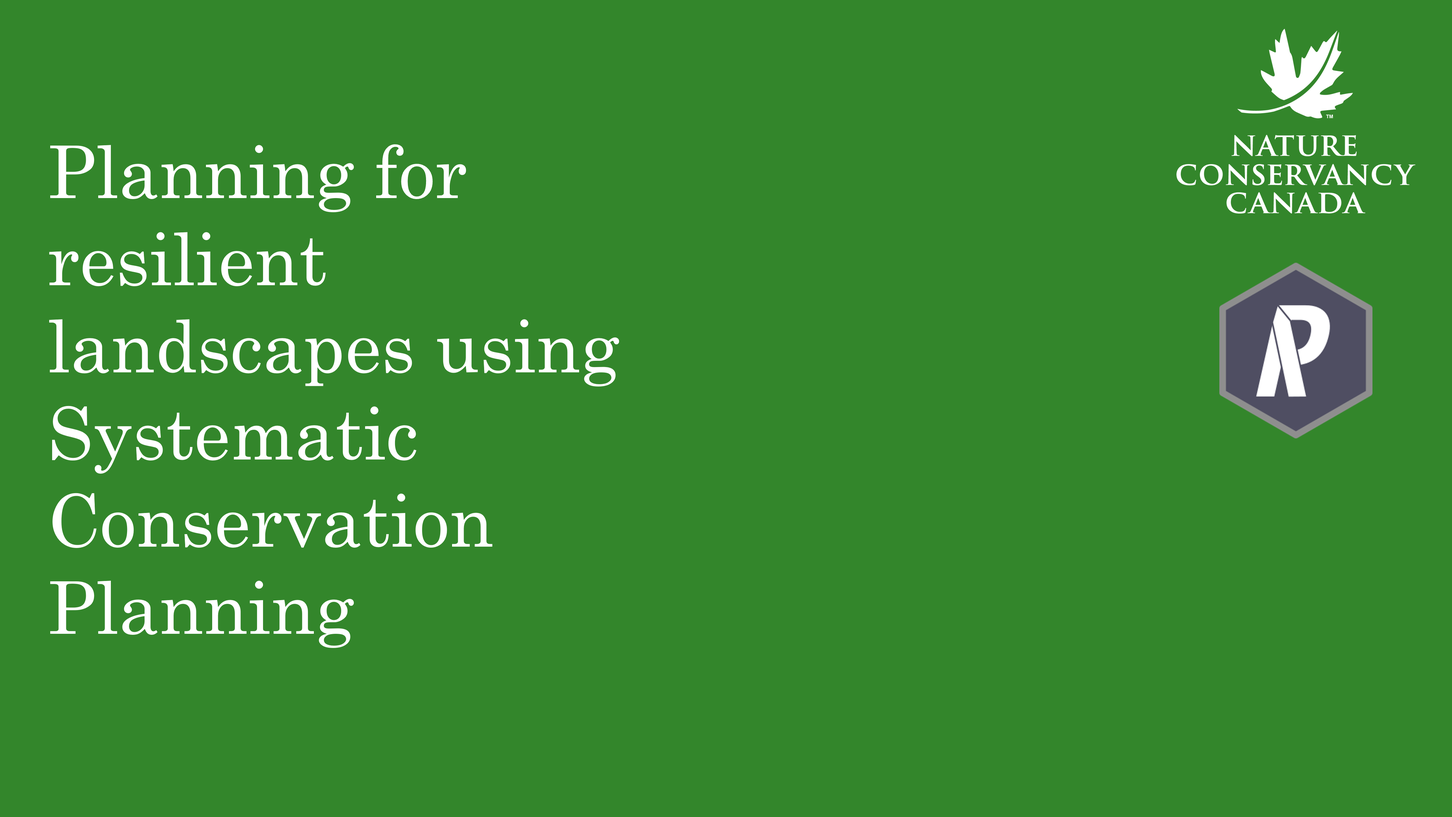
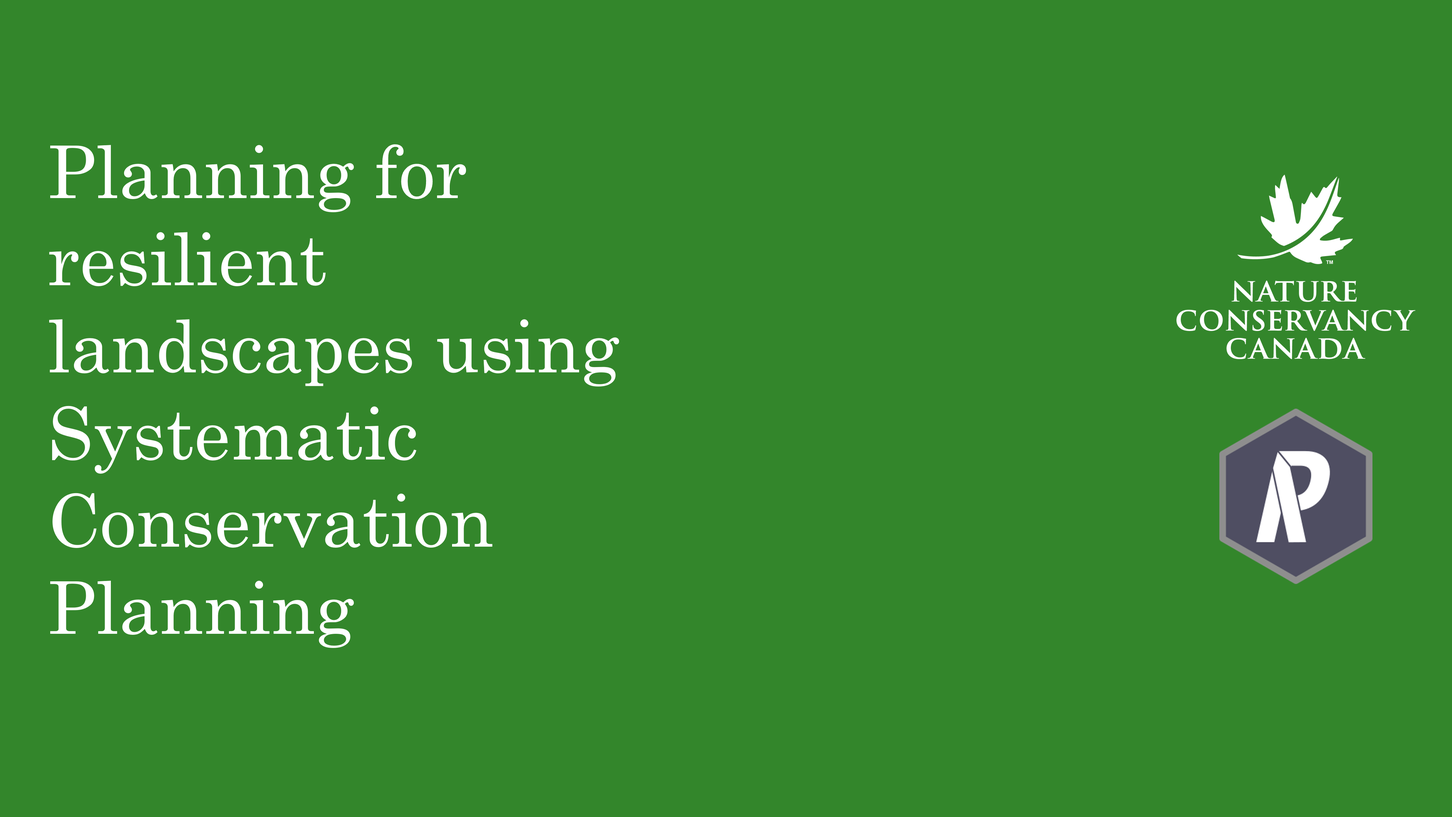
Fix hyperlinks, adjust header image

Changed region(s): [[0.8095, 0.0311, 0.9652, 0.7156]]

diff --git a/docs/reference/read_project.html b/docs/reference/read_project.html
@@ -255,7 +255,7 @@ combination of settings.</p>
 <span class='r-out co'><span class='r-pr'>#&gt;</span> $themes</span>
 <span class='r-out co'><span class='r-pr'>#&gt;</span> $themes[[1]]</span>
 <span class='r-msg co'><span class='r-pr'>#&gt;</span> Theme</span>
-<span class='r-msg co'><span class='r-pr'>#&gt;</span>   id:        cfefddb4-eba1-4b2d-8f7f-08b40c1025b7</span>
+<span class='r-msg co'><span class='r-pr'>#&gt;</span>   id:        3686a84a-f044-4636-ba54-81564b40057c</span>
 <span class='r-msg co'><span class='r-pr'>#&gt;</span>   name:      Brown-necked Parrot (Brown-necked)</span>
 <span class='r-msg co'><span class='r-pr'>#&gt;</span>   feature: </span>
 <span class='r-msg co'><span class='r-pr'>#&gt;</span>     Brown-necked Parrot (Brown-necked) habitat [status: TRUE, current: 0.78, goal: 0.83]</span>
@@ -263,7 +263,7 @@ combination of settings.</p>
 <span class='r-out co'><span class='r-pr'>#&gt;</span> </span>
 <span class='r-out co'><span class='r-pr'>#&gt;</span> $themes[[2]]</span>
 <span class='r-msg co'><span class='r-pr'>#&gt;</span> Theme</span>
-<span class='r-msg co'><span class='r-pr'>#&gt;</span>   id:        0a0b45fb-3264-43e5-8670-cb87819171be</span>
+<span class='r-msg co'><span class='r-pr'>#&gt;</span>   id:        403135f1-96f6-4a49-ae8a-edf678cf2a6d</span>
 <span class='r-msg co'><span class='r-pr'>#&gt;</span>   name:      Gough Island Finch</span>
 <span class='r-msg co'><span class='r-pr'>#&gt;</span>   feature: </span>
 <span class='r-msg co'><span class='r-pr'>#&gt;</span>     Gough Island Finch habitat [status: TRUE, current: 0.78, goal: 0.7]</span>
@@ -271,7 +271,7 @@ combination of settings.</p>
 <span class='r-out co'><span class='r-pr'>#&gt;</span> </span>
 <span class='r-out co'><span class='r-pr'>#&gt;</span> $themes[[3]]</span>
 <span class='r-msg co'><span class='r-pr'>#&gt;</span> Theme</span>
-<span class='r-msg co'><span class='r-pr'>#&gt;</span>   id:        7ddbf632-98a9-4cbe-91ae-eeac268c0913</span>
+<span class='r-msg co'><span class='r-pr'>#&gt;</span>   id:        4a718cbc-4748-4c8a-b04b-13d78e13acb3</span>
 <span class='r-msg co'><span class='r-pr'>#&gt;</span>   name:      Manus Boobook</span>
 <span class='r-msg co'><span class='r-pr'>#&gt;</span>   feature: </span>
 <span class='r-msg co'><span class='r-pr'>#&gt;</span>     Manus Boobook habitat [status: TRUE, current: 0.78, goal: 0.7]</span>
@@ -279,7 +279,7 @@ combination of settings.</p>
 <span class='r-out co'><span class='r-pr'>#&gt;</span> </span>
 <span class='r-out co'><span class='r-pr'>#&gt;</span> $themes[[4]]</span>
 <span class='r-msg co'><span class='r-pr'>#&gt;</span> Theme</span>
-<span class='r-msg co'><span class='r-pr'>#&gt;</span>   id:        5cfbb3d2-d9d5-45ae-9c71-2bd2b1c883fd</span>
+<span class='r-msg co'><span class='r-pr'>#&gt;</span>   id:        16b67415-869c-48a2-8e6a-68570089d99f</span>
 <span class='r-msg co'><span class='r-pr'>#&gt;</span>   name:      Waxbills and Allies</span>
 <span class='r-msg co'><span class='r-pr'>#&gt;</span>   feature: </span>
 <span class='r-msg co'><span class='r-pr'>#&gt;</span>     Red-faced Crimsonwing [status: TRUE, current: 0.75, goal: 0.69]</span>
@@ -303,7 +303,7 @@ combination of settings.</p>
 <span class='r-out co'><span class='r-pr'>#&gt;</span> </span>
 <span class='r-out co'><span class='r-pr'>#&gt;</span> $themes[[5]]</span>
 <span class='r-msg co'><span class='r-pr'>#&gt;</span> Theme</span>
-<span class='r-msg co'><span class='r-pr'>#&gt;</span>   id:        4809ad81-5ce3-4833-9127-e87274d87ff3</span>
+<span class='r-msg co'><span class='r-pr'>#&gt;</span>   id:        8a9803a2-5a89-4f24-af9b-b05cc90d7955</span>
 <span class='r-msg co'><span class='r-pr'>#&gt;</span>   name:      Penduline-Tits</span>
 <span class='r-msg co'><span class='r-pr'>#&gt;</span>   feature: </span>
 <span class='r-msg co'><span class='r-pr'>#&gt;</span>     Eurasian Penduline-Tit [status: TRUE, current: 0.77, goal: 0.8]</span>
@@ -321,10 +321,10 @@ combination of settings.</p>
 <span class='r-out co'><span class='r-pr'>#&gt;</span> $weights</span>
 <span class='r-out co'><span class='r-pr'>#&gt;</span> $weights[[1]]</span>
 <span class='r-msg co'><span class='r-pr'>#&gt;</span> Weight</span>
-<span class='r-msg co'><span class='r-pr'>#&gt;</span>   id:       7ba6b6d5-20c8-42ae-bb81-ce23a0a86542</span>
+<span class='r-msg co'><span class='r-pr'>#&gt;</span>   id:       5e8dc883-65a9-48ac-8db7-77f6d7e52d8e</span>
 <span class='r-msg co'><span class='r-pr'>#&gt;</span>   name:     Landscape naturalness</span>
 <span class='r-msg co'><span class='r-pr'>#&gt;</span>   variable: .../sim_raster_spatial.tif#Landscape_naturalness [total: 146.73 ha]</span>
-<span class='r-msg co'><span class='r-pr'>#&gt;</span>   pane:  6c29d7b5-b63a-48e5-aab1-57207074aa55-Landscape_naturalness</span>
+<span class='r-msg co'><span class='r-pr'>#&gt;</span>   pane:  ef3994c1-589b-4de7-aa34-5385a7e65dd0-Landscape_naturalness</span>
 <span class='r-msg co'><span class='r-pr'>#&gt;</span>   current:  0.78</span>
 <span class='r-msg co'><span class='r-pr'>#&gt;</span>   visible:  TRUE</span>
 <span class='r-msg co'><span class='r-pr'>#&gt;</span>   invisible:  NA</span>
@@ -335,10 +335,10 @@ combination of settings.</p>
 <span class='r-out co'><span class='r-pr'>#&gt;</span> </span>
 <span class='r-out co'><span class='r-pr'>#&gt;</span> $weights[[2]]</span>
 <span class='r-msg co'><span class='r-pr'>#&gt;</span> Weight</span>
-<span class='r-msg co'><span class='r-pr'>#&gt;</span>   id:       32b720d9-ead6-4b02-afc6-79b5442540d7</span>
+<span class='r-msg co'><span class='r-pr'>#&gt;</span>   id:       5b1e27f7-9dca-43fe-b5f3-0d82d4f827ef</span>
 <span class='r-msg co'><span class='r-pr'>#&gt;</span>   name:     Archaeological site</span>
 <span class='r-msg co'><span class='r-pr'>#&gt;</span>   variable: .../sim_raster_spatial.tif#Archaeological_site [total: 153.11 ha]</span>
-<span class='r-msg co'><span class='r-pr'>#&gt;</span>   pane:  63c64a49-6267-492e-9d94-19f92f9e339f-Archaeological_site</span>
+<span class='r-msg co'><span class='r-pr'>#&gt;</span>   pane:  9acaddd3-ebe7-4751-92ea-bd883a240789-Archaeological_site</span>
 <span class='r-msg co'><span class='r-pr'>#&gt;</span>   current:  0.75</span>
 <span class='r-msg co'><span class='r-pr'>#&gt;</span>   visible:  TRUE</span>
 <span class='r-msg co'><span class='r-pr'>#&gt;</span>   invisible:  NA</span>
@@ -349,10 +349,10 @@ combination of settings.</p>
 <span class='r-out co'><span class='r-pr'>#&gt;</span> </span>
 <span class='r-out co'><span class='r-pr'>#&gt;</span> $weights[[3]]</span>
 <span class='r-msg co'><span class='r-pr'>#&gt;</span> Weight</span>
-<span class='r-msg co'><span class='r-pr'>#&gt;</span>   id:       8d18352b-f1c2-423d-9ea9-28e65213f020</span>
+<span class='r-msg co'><span class='r-pr'>#&gt;</span>   id:       c11d9768-f548-4d66-b703-72b7acb07432</span>
 <span class='r-msg co'><span class='r-pr'>#&gt;</span>   name:     Engagement potential</span>
 <span class='r-msg co'><span class='r-pr'>#&gt;</span>   variable: .../sim_raster_spatial.tif#Engagement_potential [total: 145.9 ha]</span>
-<span class='r-msg co'><span class='r-pr'>#&gt;</span>   pane:  acc93769-f5e3-40cb-b067-426059c95363-Engagement_potential</span>
+<span class='r-msg co'><span class='r-pr'>#&gt;</span>   pane:  9f4e5467-3d08-42cd-980f-334417bdfaa7-Engagement_potential</span>
 <span class='r-msg co'><span class='r-pr'>#&gt;</span>   current:  0.78</span>
 <span class='r-msg co'><span class='r-pr'>#&gt;</span>   visible:  TRUE</span>
 <span class='r-msg co'><span class='r-pr'>#&gt;</span>   invisible:  NA</span>
@@ -365,10 +365,10 @@ combination of settings.</p>
 <span class='r-out co'><span class='r-pr'>#&gt;</span> $includes</span>
 <span class='r-out co'><span class='r-pr'>#&gt;</span> $includes[[1]]</span>
 <span class='r-msg co'><span class='r-pr'>#&gt;</span> Include</span>
-<span class='r-msg co'><span class='r-pr'>#&gt;</span>   id:       c7c8ab32-7718-4f87-851f-8a781fc82aab</span>
+<span class='r-msg co'><span class='r-pr'>#&gt;</span>   id:       626c9fc9-5fd7-429a-ae83-e6c2d6f98919</span>
 <span class='r-msg co'><span class='r-pr'>#&gt;</span>   name:     National protected areas</span>
 <span class='r-msg co'><span class='r-pr'>#&gt;</span>   variable: .../sim_raster_spatial.tif#National_protected_areas [total: 159 ]</span>
-<span class='r-msg co'><span class='r-pr'>#&gt;</span>   pane:  9a600469-12f1-4236-bdde-866336042d34-National_protected_areas</span>
+<span class='r-msg co'><span class='r-pr'>#&gt;</span>   pane:  74cd8504-eb6d-4ae1-a78c-278d8c2f21ec-National_protected_areas</span>
 <span class='r-msg co'><span class='r-pr'>#&gt;</span>   visible:  TRUE</span>
 <span class='r-msg co'><span class='r-pr'>#&gt;</span>   invisible:  NA</span>
 <span class='r-msg co'><span class='r-pr'>#&gt;</span>   loaded:  TRUE</span>
@@ -378,10 +378,10 @@ combination of settings.</p>
 <span class='r-out co'><span class='r-pr'>#&gt;</span> </span>
 <span class='r-out co'><span class='r-pr'>#&gt;</span> $includes[[2]]</span>
 <span class='r-msg co'><span class='r-pr'>#&gt;</span> Include</span>
-<span class='r-msg co'><span class='r-pr'>#&gt;</span>   id:       1b0641c2-d51a-44fd-81b3-c0b06ad6e7c8</span>
+<span class='r-msg co'><span class='r-pr'>#&gt;</span>   id:       1d1aefa5-300c-4e86-a6df-a875dce1aadd</span>
 <span class='r-msg co'><span class='r-pr'>#&gt;</span>   name:     Key Biodiversity Areas</span>
 <span class='r-msg co'><span class='r-pr'>#&gt;</span>   variable: .../sim_raster_spatial.tif#Key_Biodiversity_Areas [total: 147 ]</span>
-<span class='r-msg co'><span class='r-pr'>#&gt;</span>   pane:  8a6a9211-e78e-4bcd-8f03-e4a33167ce42-Key_Biodiversity_Areas</span>
+<span class='r-msg co'><span class='r-pr'>#&gt;</span>   pane:  f2d4dd33-b6c1-4ccf-b853-642733b08238-Key_Biodiversity_Areas</span>
 <span class='r-msg co'><span class='r-pr'>#&gt;</span>   visible:  TRUE</span>
 <span class='r-msg co'><span class='r-pr'>#&gt;</span>   invisible:  NA</span>
 <span class='r-msg co'><span class='r-pr'>#&gt;</span>   loaded:  TRUE</span>

diff --git a/docs/reference/simulate_themes.html b/docs/reference/simulate_themes.html
@@ -213,7 +213,7 @@ categorical defined by a conditional: <code>stats::runif(1) &gt; 0.5</code></p><
 <span class='r-in'><span class='fu'><a href='https://rdrr.io/r/base/print.html'>print</a></span><span class='op'>(</span><span class='va'>x</span><span class='op'>)</span></span>
 <span class='r-out co'><span class='r-pr'>#&gt;</span> [[1]]</span>
 <span class='r-msg co'><span class='r-pr'>#&gt;</span> Theme</span>
-<span class='r-msg co'><span class='r-pr'>#&gt;</span>   id:        cd1a8325-8bf3-4911-8649-06510f46b848</span>
+<span class='r-msg co'><span class='r-pr'>#&gt;</span>   id:        8e6f980a-68a6-4ee1-9e0c-a892fbb290b9</span>
 <span class='r-msg co'><span class='r-pr'>#&gt;</span>   name:      Black-lored Babbler</span>
 <span class='r-msg co'><span class='r-pr'>#&gt;</span>   feature: </span>
 <span class='r-msg co'><span class='r-pr'>#&gt;</span>     Black-lored Babbler habitat [status: TRUE, current: 0.24, goal: 0.65]</span>
@@ -221,7 +221,7 @@ categorical defined by a conditional: <code>stats::runif(1) &gt; 0.5</code></p><
 <span class='r-out co'><span class='r-pr'>#&gt;</span> </span>
 <span class='r-out co'><span class='r-pr'>#&gt;</span> [[2]]</span>
 <span class='r-msg co'><span class='r-pr'>#&gt;</span> Theme</span>
-<span class='r-msg co'><span class='r-pr'>#&gt;</span>   id:        31c255d2-4c57-4dde-9907-ad66b67e87a5</span>
+<span class='r-msg co'><span class='r-pr'>#&gt;</span>   id:        a9b62451-bfbb-4e18-8a0e-19bb2139f647</span>
 <span class='r-msg co'><span class='r-pr'>#&gt;</span>   name:      Ornate Flycatcher</span>
 <span class='r-msg co'><span class='r-pr'>#&gt;</span>   feature: </span>
 <span class='r-msg co'><span class='r-pr'>#&gt;</span>     Ornate Flycatcher habitat [status: TRUE, current: 0.41, goal: 0.61]</span>
@@ -229,7 +229,7 @@ categorical defined by a conditional: <code>stats::runif(1) &gt; 0.5</code></p><
 <span class='r-out co'><span class='r-pr'>#&gt;</span> </span>
 <span class='r-out co'><span class='r-pr'>#&gt;</span> [[3]]</span>
 <span class='r-msg co'><span class='r-pr'>#&gt;</span> Theme</span>
-<span class='r-msg co'><span class='r-pr'>#&gt;</span>   id:        c29d3698-951c-4fe5-bad4-4f96a5f9dfb6</span>
+<span class='r-msg co'><span class='r-pr'>#&gt;</span>   id:        79bcad80-d11c-4531-9c14-92fbd9ff23ef</span>
 <span class='r-msg co'><span class='r-pr'>#&gt;</span>   name:      Slaty Bristlefront</span>
 <span class='r-msg co'><span class='r-pr'>#&gt;</span>   feature: </span>
 <span class='r-msg co'><span class='r-pr'>#&gt;</span>     Slaty Bristlefront habitat [status: TRUE, current: 0.26, goal: 0.58]</span>
@@ -237,7 +237,7 @@ categorical defined by a conditional: <code>stats::runif(1) &gt; 0.5</code></p><
 <span class='r-out co'><span class='r-pr'>#&gt;</span> </span>
 <span class='r-out co'><span class='r-pr'>#&gt;</span> [[4]]</span>
 <span class='r-msg co'><span class='r-pr'>#&gt;</span> Theme</span>
-<span class='r-msg co'><span class='r-pr'>#&gt;</span>   id:        04b88276-92fd-4387-8a25-d4450de2aa18</span>
+<span class='r-msg co'><span class='r-pr'>#&gt;</span>   id:        23161f39-728e-40fb-bcb6-bde2670e8085</span>
 <span class='r-msg co'><span class='r-pr'>#&gt;</span>   name:      Wattle-eyes and Batises</span>
 <span class='r-msg co'><span class='r-pr'>#&gt;</span>   feature: </span>
 <span class='r-msg co'><span class='r-pr'>#&gt;</span>     Yellow-bellied Wattle-eye (Central African) [status: TRUE, current: 0.28, goal: 0.8]</span>
@@ -253,7 +253,7 @@ categorical defined by a conditional: <code>stats::runif(1) &gt; 0.5</code></p><
 <span class='r-out co'><span class='r-pr'>#&gt;</span> </span>
 <span class='r-out co'><span class='r-pr'>#&gt;</span> [[5]]</span>
 <span class='r-msg co'><span class='r-pr'>#&gt;</span> Theme</span>
-<span class='r-msg co'><span class='r-pr'>#&gt;</span>   id:        9a07d973-49c6-4ede-968f-aa5a9c51f6ba</span>
+<span class='r-msg co'><span class='r-pr'>#&gt;</span>   id:        c4849e4b-49c7-4f26-8365-75aa3a744637</span>
 <span class='r-msg co'><span class='r-pr'>#&gt;</span>   name:      Starlings</span>
 <span class='r-msg co'><span class='r-pr'>#&gt;</span>   feature: </span>
 <span class='r-msg co'><span class='r-pr'>#&gt;</span>     Rosy Starling [status: TRUE, current: 0.3, goal: 0.87]</span>

diff --git a/docs/articles/articles/wtw_theory.html b/docs/articles/articles/wtw_theory.html
@@ -100,7 +100,8 @@
 <a href="#introduction" class="anchor" aria-hidden="true"></a>Introduction</h1>
 <p>This article is intended for users already familiar with the basic
 functionality of the Where to Work tool. It is recommended to first read
-the <a href="manual.html">official manual</a> before proceeding.</p>
+the <a href="https://ncc-cnc.github.io/wheretowork/articles/articles/wtw_manual.html" class="external-link">official
+manual</a> before proceeding.</p>
 <p>The goal of this article is to explore some of the underlying
 algorithms and behavior of Where to Work, so that users can better
 understand and interpret their results. This will also allow users to
@@ -160,7 +161,8 @@ points in this article for readers interested in learning more.</p>
 size (i.e. a raster layer), or a combination of polygons of any shape
 and size (i.e. a shapefile). The data preparation for Where to Work
 involves summarizing all of the Themes, Weights, Includes and Excludes
-in each planning unit. More information on this can be found in the <a href="data.html">data article</a> and in the <a href="https://github.com/NCC-CNC/wtw-data-prep" class="external-link">wtw-data-prep</a> github
+in each planning unit. More information on this can be found in the <a href="https://ncc-cnc.github.io/wheretowork/articles/articles/wtw_data.html" class="external-link">data
+article</a> and in the <a href="https://github.com/NCC-CNC/wtw-data-prep" class="external-link">wtw-data-prep</a> github
 repo.</p>
 </div>
 <div id="theme-goals" class="section level1">
@@ -184,8 +186,8 @@ categorical or ordinal data in Where to Work for example because the
 values cannot be summed for Goal-setting. A land cover map representing
 forested and grassland areas for example would need to be separated out
 into two individual Themes where the planning unit values represent the
-area of each land cover type within the planning unit. See the <a href="https://ncc-cnc.github.io/wheretowork/data.html" class="external-link">data article</a>
-for more examples of this.</p>
+area of each land cover type within the planning unit. See the <a href="https://ncc-cnc.github.io/wheretowork/articles/articles/wtw_data.html" class="external-link">data
+article</a> for more examples of this.</p>
 </div>
 <div id="includesexcludes" class="section level1">
 <h1 class="hasAnchor">
@@ -193,7 +195,7 @@ for more examples of this.</p>
 <p>Includes and Excludes are simple to understand, they force-in or
 block-out planning units from the final solution. They can be a powerful
 way of customizing your <code>conservation problem</code>. See the <a href="#advancedworkflows">Advanced workflow</a> section for examples and
-the <a href="https://ncc-cnc.github.io/wheretowork/data.html" class="external-link">data
+the <a href="https://ncc-cnc.github.io/wheretowork/articles/articles/wtw_data.html" class="external-link">data
 article</a> for data prep tips.</p>
 </div>
 <div id="area-budget" class="section level1">

diff --git a/docs/reference/simulate_weights.html b/docs/reference/simulate_weights.html
@@ -193,10 +193,10 @@ Defaults to <code>TRUE</code>.</p></td>
 <span class='r-in'><span class='fu'><a href='https://rdrr.io/r/base/print.html'>print</a></span><span class='op'>(</span><span class='va'>x</span><span class='op'>)</span></span>
 <span class='r-out co'><span class='r-pr'>#&gt;</span> [[1]]</span>
 <span class='r-msg co'><span class='r-pr'>#&gt;</span> Weight</span>
-<span class='r-msg co'><span class='r-pr'>#&gt;</span>   id:       09a2e290-7897-4c64-9542-059aaddd65c3</span>
+<span class='r-msg co'><span class='r-pr'>#&gt;</span>   id:       243b3c4c-ad41-4881-a4e1-a8fe65a9ab1a</span>
 <span class='r-msg co'><span class='r-pr'>#&gt;</span>   name:     Tsunami threat</span>
 <span class='r-msg co'><span class='r-pr'>#&gt;</span>   variable: .../sim_raster_spatial.tif#Tsunami_threat [total: 160.06 ha]</span>
-<span class='r-msg co'><span class='r-pr'>#&gt;</span>   pane:  c243e45b-591b-4f92-a666-b2cb7e20e690-Tsunami_threat</span>
+<span class='r-msg co'><span class='r-pr'>#&gt;</span>   pane:  12294ef4-c8a3-4950-b13a-1dc64c66404a-Tsunami_threat</span>
 <span class='r-msg co'><span class='r-pr'>#&gt;</span>   current:  0.53</span>
 <span class='r-msg co'><span class='r-pr'>#&gt;</span>   visible:  TRUE</span>
 <span class='r-msg co'><span class='r-pr'>#&gt;</span>   invisible:  NA</span>
@@ -207,10 +207,10 @@ Defaults to <code>TRUE</code>.</p></td>
 <span class='r-out co'><span class='r-pr'>#&gt;</span> </span>
 <span class='r-out co'><span class='r-pr'>#&gt;</span> [[2]]</span>
 <span class='r-msg co'><span class='r-pr'>#&gt;</span> Weight</span>
-<span class='r-msg co'><span class='r-pr'>#&gt;</span>   id:       266de19d-2861-4914-9061-51c74b2b4c93</span>
+<span class='r-msg co'><span class='r-pr'>#&gt;</span>   id:       c9d5c064-aec6-4b41-9d33-58faaa468920</span>
 <span class='r-msg co'><span class='r-pr'>#&gt;</span>   name:     Pesticide risk</span>
 <span class='r-msg co'><span class='r-pr'>#&gt;</span>   variable: .../sim_raster_spatial.tif#Pesticide_risk [total: 130.71 ha]</span>
-<span class='r-msg co'><span class='r-pr'>#&gt;</span>   pane:  cb2c9052-7431-4773-85e0-269b44dacbea-Pesticide_risk</span>
+<span class='r-msg co'><span class='r-pr'>#&gt;</span>   pane:  3f850061-9e70-4a96-92fb-dad4e48c2ff5-Pesticide_risk</span>
 <span class='r-msg co'><span class='r-pr'>#&gt;</span>   current:  0.19</span>
 <span class='r-msg co'><span class='r-pr'>#&gt;</span>   visible:  TRUE</span>
 <span class='r-msg co'><span class='r-pr'>#&gt;</span>   invisible:  NA</span>

diff --git a/docs/reference/simulate_includes.html b/docs/reference/simulate_includes.html
@@ -188,10 +188,10 @@
 <span class='r-in'><span class='fu'><a href='https://rdrr.io/r/base/print.html'>print</a></span><span class='op'>(</span><span class='va'>x</span><span class='op'>)</span></span>
 <span class='r-out co'><span class='r-pr'>#&gt;</span> [[1]]</span>
 <span class='r-msg co'><span class='r-pr'>#&gt;</span> Include</span>
-<span class='r-msg co'><span class='r-pr'>#&gt;</span>   id:       5bf34411-574c-4c4c-bcf0-9e114942d0fc</span>
+<span class='r-msg co'><span class='r-pr'>#&gt;</span>   id:       4c4a49c1-f67e-4654-a884-6f49d40d0cee</span>
 <span class='r-msg co'><span class='r-pr'>#&gt;</span>   name:     Protected landscapes</span>
 <span class='r-msg co'><span class='r-pr'>#&gt;</span>   variable: .../sim_raster_spatial.tif#Protected_landscapes [total: 183 ]</span>
-<span class='r-msg co'><span class='r-pr'>#&gt;</span>   pane:  d5ecbc2e-77cd-4efb-a9d1-3e853a659879-Protected_landscapes</span>
+<span class='r-msg co'><span class='r-pr'>#&gt;</span>   pane:  572eaa06-7c07-495d-9415-ffc3214f7cf5-Protected_landscapes</span>
 <span class='r-msg co'><span class='r-pr'>#&gt;</span>   visible:  TRUE</span>
 <span class='r-msg co'><span class='r-pr'>#&gt;</span>   invisible:  NA</span>
 <span class='r-msg co'><span class='r-pr'>#&gt;</span>   loaded:  TRUE</span>
@@ -201,10 +201,10 @@
 <span class='r-out co'><span class='r-pr'>#&gt;</span> </span>
 <span class='r-out co'><span class='r-pr'>#&gt;</span> [[2]]</span>
 <span class='r-msg co'><span class='r-pr'>#&gt;</span> Include</span>
-<span class='r-msg co'><span class='r-pr'>#&gt;</span>   id:       ff51762b-1336-4b19-a0f1-f3250172523c</span>
+<span class='r-msg co'><span class='r-pr'>#&gt;</span>   id:       45c09312-8bee-4f8f-832f-97317cc7ffb6</span>
 <span class='r-msg co'><span class='r-pr'>#&gt;</span>   name:     Special Protection Area</span>
 <span class='r-msg co'><span class='r-pr'>#&gt;</span>   variable: .../sim_raster_spatial.tif#Special_Protection_Area [total: 144 ]</span>
-<span class='r-msg co'><span class='r-pr'>#&gt;</span>   pane:  576f7977-6127-4ae6-adf6-56772b4fab2f-Special_Protection_Area</span>
+<span class='r-msg co'><span class='r-pr'>#&gt;</span>   pane:  285454f8-c32e-459b-9182-d0c6f16dba2f-Special_Protection_Area</span>
 <span class='r-msg co'><span class='r-pr'>#&gt;</span>   visible:  TRUE</span>
 <span class='r-msg co'><span class='r-pr'>#&gt;</span>   invisible:  NA</span>
 <span class='r-msg co'><span class='r-pr'>#&gt;</span>   loaded:  TRUE</span>

diff --git a/docs/reference/simulate_excludes.html b/docs/reference/simulate_excludes.html
@@ -188,10 +188,10 @@
 <span class='r-in'><span class='fu'><a href='https://rdrr.io/r/base/print.html'>print</a></span><span class='op'>(</span><span class='va'>x</span><span class='op'>)</span></span>
 <span class='r-out co'><span class='r-pr'>#&gt;</span> [[1]]</span>
 <span class='r-msg co'><span class='r-pr'>#&gt;</span> Exclude</span>
-<span class='r-msg co'><span class='r-pr'>#&gt;</span>   id:       f3d5aeca-9605-4a69-b974-da176501a43f</span>
+<span class='r-msg co'><span class='r-pr'>#&gt;</span>   id:       bbcebcd3-3f0f-4d0e-a632-89d532837a30</span>
 <span class='r-msg co'><span class='r-pr'>#&gt;</span>   name:     Crown land</span>
 <span class='r-msg co'><span class='r-pr'>#&gt;</span>   variable: .../sim_raster_spatial.tif#Crown_land [total: 167 ]</span>
-<span class='r-msg co'><span class='r-pr'>#&gt;</span>   pane:  2e69acda-8742-4bb0-bf75-edd47ed23006-Crown_land</span>
+<span class='r-msg co'><span class='r-pr'>#&gt;</span>   pane:  070db95a-26be-4d3b-b3a6-2fcc8542a363-Crown_land</span>
 <span class='r-msg co'><span class='r-pr'>#&gt;</span>   visible:  TRUE</span>
 <span class='r-msg co'><span class='r-pr'>#&gt;</span>   invisible:  NA</span>
 <span class='r-msg co'><span class='r-pr'>#&gt;</span>   loaded:  TRUE</span>
@@ -201,10 +201,10 @@
 <span class='r-out co'><span class='r-pr'>#&gt;</span> </span>
 <span class='r-out co'><span class='r-pr'>#&gt;</span> [[2]]</span>
 <span class='r-msg co'><span class='r-pr'>#&gt;</span> Exclude</span>
-<span class='r-msg co'><span class='r-pr'>#&gt;</span>   id:       73d63a49-ad71-430d-b389-a7263528aa9e</span>
+<span class='r-msg co'><span class='r-pr'>#&gt;</span>   id:       0317395d-6075-4cd5-b40f-ac159ad4805e</span>
 <span class='r-msg co'><span class='r-pr'>#&gt;</span>   name:     Merchantable Timber</span>
 <span class='r-msg co'><span class='r-pr'>#&gt;</span>   variable: .../sim_raster_spatial.tif#Merchantable_Timber [total: 172 ]</span>
-<span class='r-msg co'><span class='r-pr'>#&gt;</span>   pane:  6dfbdc8b-dcf9-4a4f-bf9d-ce9772b65637-Merchantable_Timber</span>
+<span class='r-msg co'><span class='r-pr'>#&gt;</span>   pane:  57fd6f30-276d-4dc2-9f61-868f3a191571-Merchantable_Timber</span>
 <span class='r-msg co'><span class='r-pr'>#&gt;</span>   visible:  TRUE</span>
 <span class='r-msg co'><span class='r-pr'>#&gt;</span>   invisible:  NA</span>
 <span class='r-msg co'><span class='r-pr'>#&gt;</span>   loaded:  TRUE</span>

diff --git a/docs/articles/articles/wtw_data.html b/docs/articles/articles/wtw_data.html
@@ -98,15 +98,20 @@
 <div id="introduction" class="section level1">
 <h1 class="hasAnchor">
 <a href="#introduction" class="anchor" aria-hidden="true"></a>Introduction</h1>
+<p>This article is intended for users already familiar with the basic
+functionality of the Where to Work tool. It is recommended to first read
+the <a href="https://ncc-cnc.github.io/wheretowork/articles/articles/wtw_manual.html" class="external-link">official
+manual</a> before proceeding.</p>
 <p>Input data for Where to Work needs to be summarized by planning unit
 during the data-prep stage. We strongly recommend using the 4-file input
 format described in <a href="https://github.com/NCC-CNC/wtw-data-prep" class="external-link">wtw-data-prep</a> with
 raster planning units, or shapefile planning units if planning units of
 different shapes and sizes are required.</p>
-<p>As described in the Goals section of the <a href="theory.html#goals">wtw-theory</a> article, Where to Work operates
-on the values assigned to each planning unit. Planning unit values for
-Themes, Weights, Includes and Excludes therefore need to be carefully
-prepared before feeding the planning units into Where to Work.</p>
+<p>As described in the Goals section of the <a href="https://ncc-cnc.github.io/wheretowork/articles/articles/wtw_theory.html#goals" class="external-link">wtw-theory</a>
+article, Where to Work operates on the values assigned to each planning
+unit. Planning unit values for Themes, Weights, Includes and Excludes
+therefore need to be carefully prepared before feeding the planning
+units into Where to Work.</p>
 <p>The correct way to summarize the input data depends on the planning
 unit type (i.e. equal area vs different areas), the units of the input
 data (i.e. area/distance/count, other units, unitless), and the type of

diff --git a/docs/reference/new_weight_results.html b/docs/reference/new_weight_results.html
@@ -197,10 +197,10 @@ Defaults to a random identifier (<code><a href='https://rdrr.io/pkg/uuid/man/UUI
 <span class='r-in'><span class='co'># print object</span></span>
 <span class='r-in'><span class='fu'><a href='https://rdrr.io/r/base/print.html'>print</a></span><span class='op'>(</span><span class='va'>w</span><span class='op'>)</span></span>
 <span class='r-msg co'><span class='r-pr'>#&gt;</span> Weight</span>
-<span class='r-msg co'><span class='r-pr'>#&gt;</span>   id:       52e3a7f2-c903-4b21-9523-04a41b1ed5ec</span>
+<span class='r-msg co'><span class='r-pr'>#&gt;</span>   id:       622b45c7-3d99-4b3d-a837-007dbb6dc784</span>
 <span class='r-msg co'><span class='r-pr'>#&gt;</span>   name:     NDVI</span>
 <span class='r-msg co'><span class='r-pr'>#&gt;</span>   variable: .../sim_raster_spatial.tif#Brown_necked_Parrot_Brown_necked_ [total: 1052 ]</span>
-<span class='r-msg co'><span class='r-pr'>#&gt;</span>   pane:  ed314a48-9136-4ec4-a106-66f24ce2c7c4-Brown_necked_Parrot_Brown_necked_</span>
+<span class='r-msg co'><span class='r-pr'>#&gt;</span>   pane:  36b6aa7c-8739-4e30-9bc1-a60542d65ba4-Brown_necked_Parrot_Brown_necked_</span>
 <span class='r-msg co'><span class='r-pr'>#&gt;</span>   current:  0</span>
 <span class='r-msg co'><span class='r-pr'>#&gt;</span>   visible:  TRUE</span>
 <span class='r-msg co'><span class='r-pr'>#&gt;</span>   invisible:  NA</span>

diff --git a/docs/reference/new_exclude.html b/docs/reference/new_exclude.html
@@ -258,10 +258,10 @@ layer index.</p></td>
 <span class='r-in'><span class='co'># print object</span></span>
 <span class='r-in'><span class='fu'><a href='https://rdrr.io/r/base/print.html'>print</a></span><span class='op'>(</span><span class='va'>e</span><span class='op'>)</span></span>
 <span class='r-msg co'><span class='r-pr'>#&gt;</span> Exclude</span>
-<span class='r-msg co'><span class='r-pr'>#&gt;</span>   id:       ae21ba48-f6e0-4428-99c0-05202450a8bd</span>
+<span class='r-msg co'><span class='r-pr'>#&gt;</span>   id:       a6f4b686-d96c-4870-b2a1-485d1417d1d1</span>
 <span class='r-msg co'><span class='r-pr'>#&gt;</span>   name:     Protected areas</span>
 <span class='r-msg co'><span class='r-pr'>#&gt;</span>   variable: .../sim_raster_spatial.tif#Brown_necked_Parrot_Brown_necked_ [total: 1052 ]</span>
-<span class='r-msg co'><span class='r-pr'>#&gt;</span>   pane:  68dc896b-9f01-4e45-8823-5ace51e042ed-Brown_necked_Parrot_Brown_necked_</span>
+<span class='r-msg co'><span class='r-pr'>#&gt;</span>   pane:  152e9742-ff93-4fd9-b4f5-980cf5293bee-Brown_necked_Parrot_Brown_necked_</span>
 <span class='r-msg co'><span class='r-pr'>#&gt;</span>   visible:  TRUE</span>
 <span class='r-msg co'><span class='r-pr'>#&gt;</span>   invisible:  NA</span>
 <span class='r-msg co'><span class='r-pr'>#&gt;</span>   loaded:  TRUE</span>

diff --git a/docs/reference/new_include.html b/docs/reference/new_include.html
@@ -258,10 +258,10 @@ layer index.</p></td>
 <span class='r-in'><span class='co'># print object</span></span>
 <span class='r-in'><span class='fu'><a href='https://rdrr.io/r/base/print.html'>print</a></span><span class='op'>(</span><span class='va'>w</span><span class='op'>)</span></span>
 <span class='r-msg co'><span class='r-pr'>#&gt;</span> Include</span>
-<span class='r-msg co'><span class='r-pr'>#&gt;</span>   id:       d53cd442-21fb-4013-88a7-9b67a86206c8</span>
+<span class='r-msg co'><span class='r-pr'>#&gt;</span>   id:       061915a9-c09f-496a-a14c-a974f0cd19fd</span>
 <span class='r-msg co'><span class='r-pr'>#&gt;</span>   name:     Protected areas</span>
 <span class='r-msg co'><span class='r-pr'>#&gt;</span>   variable: .../sim_raster_spatial.tif#Brown_necked_Parrot_Brown_necked_ [total: 1052 ]</span>
-<span class='r-msg co'><span class='r-pr'>#&gt;</span>   pane:  199576f4-35fa-4a7c-9590-6ce930f6827b-Brown_necked_Parrot_Brown_necked_</span>
+<span class='r-msg co'><span class='r-pr'>#&gt;</span>   pane:  85cecf84-c2a2-4fd1-a18a-bc33b38e7904-Brown_necked_Parrot_Brown_necked_</span>
 <span class='r-msg co'><span class='r-pr'>#&gt;</span>   visible:  TRUE</span>
 <span class='r-msg co'><span class='r-pr'>#&gt;</span>   invisible:  NA</span>
 <span class='r-msg co'><span class='r-pr'>#&gt;</span>   loaded:  TRUE</span>

diff --git a/docs/reference/new_feature.html b/docs/reference/new_feature.html
@@ -268,10 +268,10 @@ layer index.</p></td>
 <span class='r-in'><span class='co'># print object</span></span>
 <span class='r-in'><span class='fu'><a href='https://rdrr.io/r/base/print.html'>print</a></span><span class='op'>(</span><span class='va'>f</span><span class='op'>)</span></span>
 <span class='r-msg co'><span class='r-pr'>#&gt;</span> Feature</span>
-<span class='r-msg co'><span class='r-pr'>#&gt;</span>   id:       32572fb4-f6cf-4020-ba68-fcfd004d001c</span>
+<span class='r-msg co'><span class='r-pr'>#&gt;</span>   id:       1f78d806-26b9-47d1-a777-0dc066c601fd</span>
 <span class='r-msg co'><span class='r-pr'>#&gt;</span>   name:     Intact Alvar</span>
 <span class='r-msg co'><span class='r-pr'>#&gt;</span>   variable: .../sim_raster_spatial.tif#Brown_necked_Parrot_Brown_necked_ [total: 1052 ]</span>
-<span class='r-msg co'><span class='r-pr'>#&gt;</span>   pane:  456b7441-6ad2-43fc-a812-d79c73014cf3-Brown_necked_Parrot_Brown_necked_</span>
+<span class='r-msg co'><span class='r-pr'>#&gt;</span>   pane:  2ac3b89a-93a5-46a4-8f20-228346b0465b-Brown_necked_Parrot_Brown_necked_</span>
 <span class='r-msg co'><span class='r-pr'>#&gt;</span>   visible:  TRUE</span>
 <span class='r-msg co'><span class='r-pr'>#&gt;</span>   invisible:  NA</span>
 <span class='r-msg co'><span class='r-pr'>#&gt;</span>   loaded:  TRUE</span>

diff --git a/docs/reference/new_weight.html b/docs/reference/new_weight.html
@@ -257,10 +257,10 @@ layer index.</p></td>
 <span class='r-in'><span class='co'># print object</span></span>
 <span class='r-in'><span class='fu'><a href='https://rdrr.io/r/base/print.html'>print</a></span><span class='op'>(</span><span class='va'>w</span><span class='op'>)</span></span>
 <span class='r-msg co'><span class='r-pr'>#&gt;</span> Weight</span>
-<span class='r-msg co'><span class='r-pr'>#&gt;</span>   id:       5b83d3bd-4390-4987-9b22-eaa0f50461b9</span>
+<span class='r-msg co'><span class='r-pr'>#&gt;</span>   id:       6211329e-e22e-4f60-942e-bc33d6c20180</span>
 <span class='r-msg co'><span class='r-pr'>#&gt;</span>   name:     NDVI</span>
 <span class='r-msg co'><span class='r-pr'>#&gt;</span>   variable: .../sim_raster_spatial.tif#Brown_necked_Parrot_Brown_necked_ [total: 1052 ]</span>
-<span class='r-msg co'><span class='r-pr'>#&gt;</span>   pane:  8afec919-6078-4e43-b6bd-020836fa9455-Brown_necked_Parrot_Brown_necked_</span>
+<span class='r-msg co'><span class='r-pr'>#&gt;</span>   pane:  6c77225d-a9d8-4265-8953-0a715db1be8d-Brown_necked_Parrot_Brown_necked_</span>
 <span class='r-msg co'><span class='r-pr'>#&gt;</span>   current:  0</span>
 <span class='r-msg co'><span class='r-pr'>#&gt;</span>   visible:  TRUE</span>
 <span class='r-msg co'><span class='r-pr'>#&gt;</span>   invisible:  NA</span>
